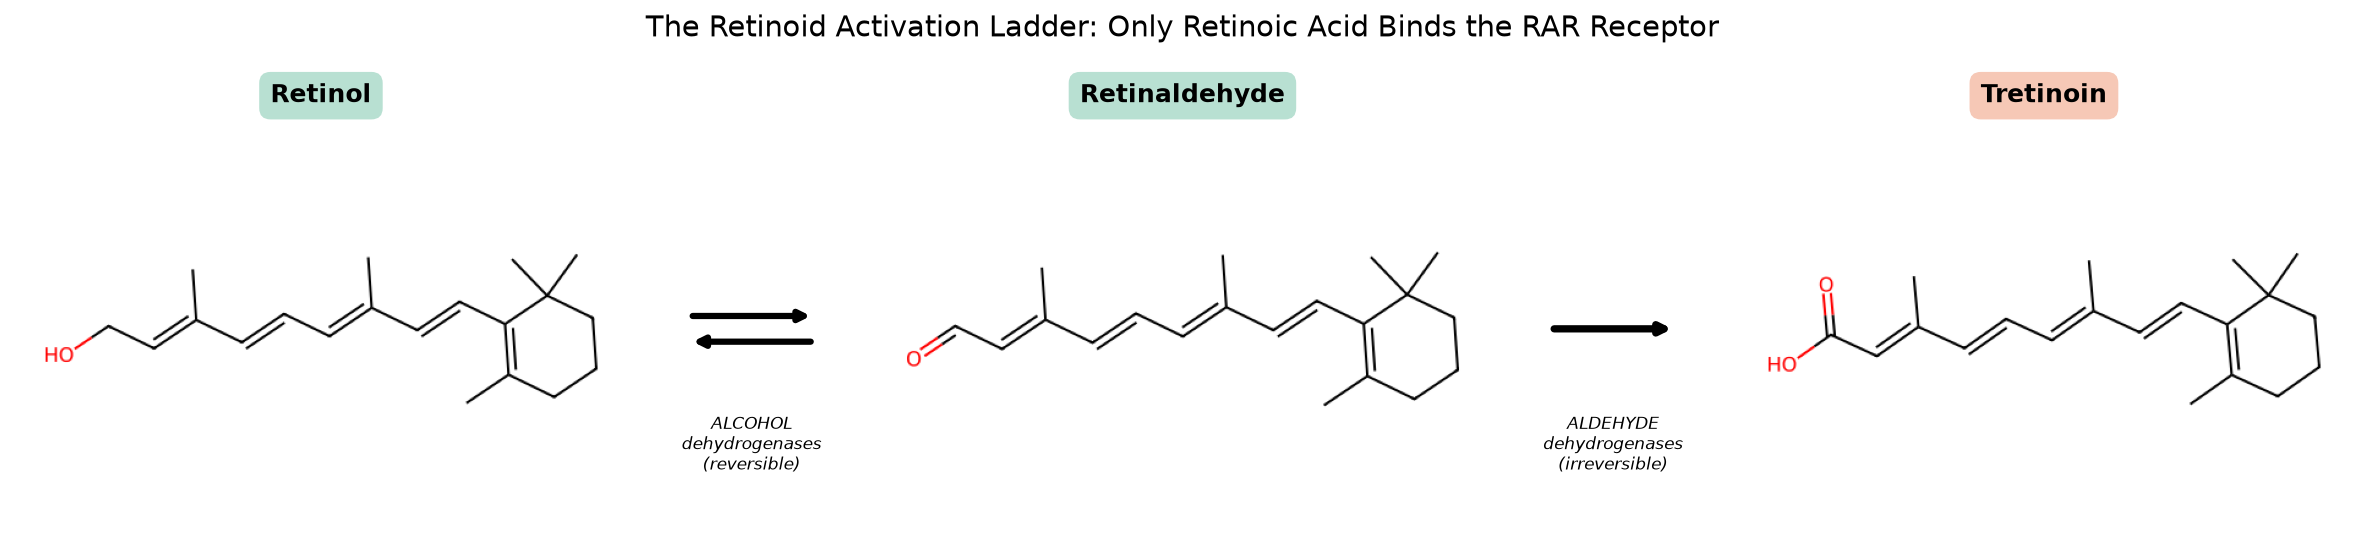
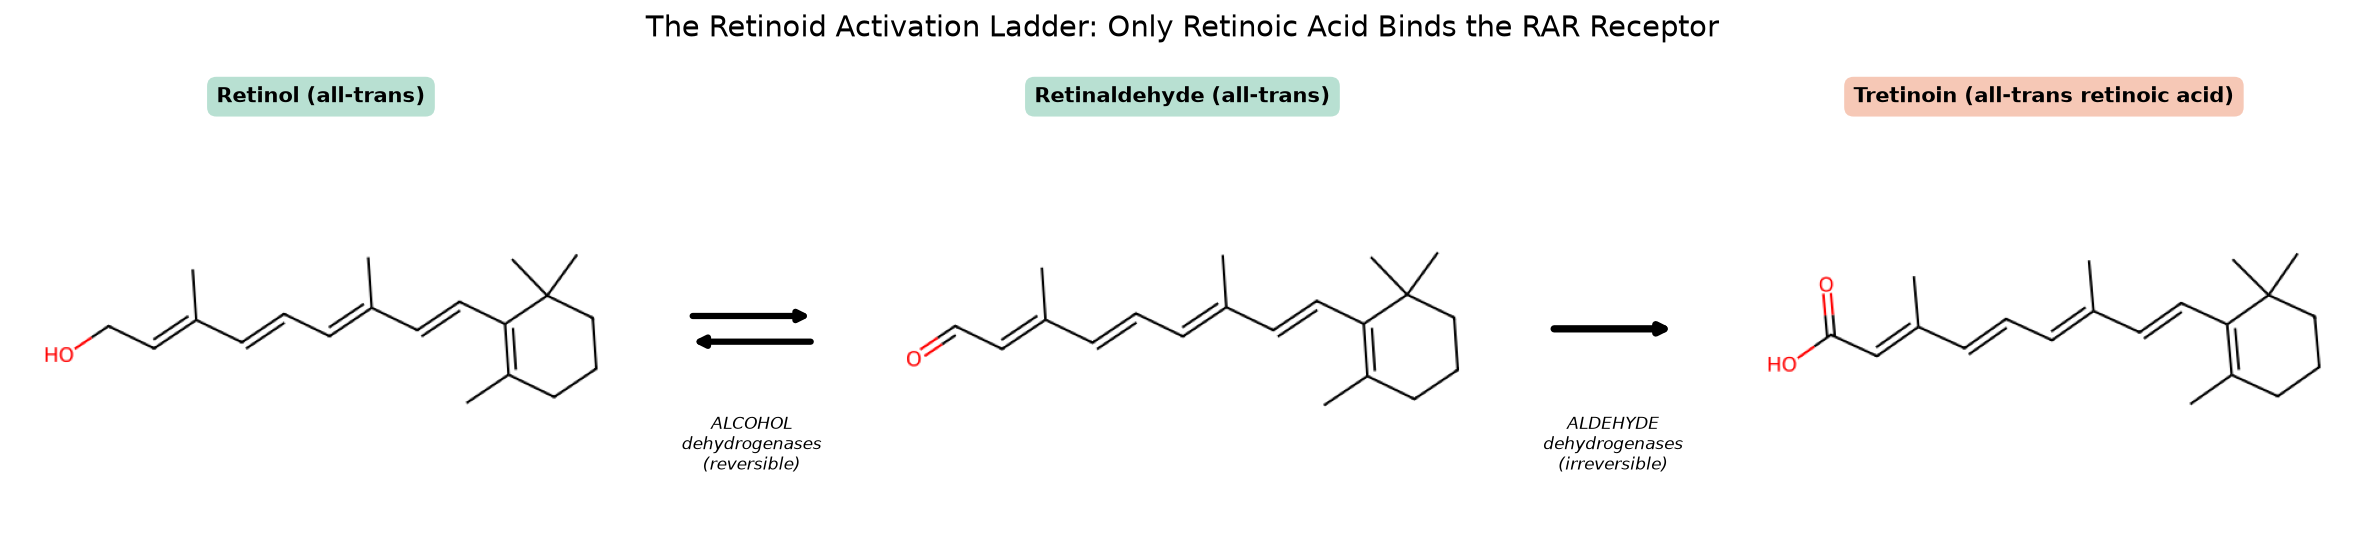
README draft and figure label fixes

Changed region(s): [[0.772, 0.1219, 0.9573, 0.2133], [0.4323, 0.1219, 0.5867, 0.2133], [0.0618, 0.1219, 0.1853, 0.2133]]

diff --git a/README.md b/README.md
@@ -1,1 +1,25 @@
-# Retinoid-analysis
+# Retinoid Chemistry: Marketing Claims vs Molecular Reality
+
+This project investigates....
+
+The visual elements of the notebook such as the molecular structures were generated  with RDKit
+
+Review and introduction of two randomised clinical trials
+
+Survey of five retinoid products sold by a UK retailer (Boots)
+
+Key Findings...
+
+Conversion ladder costs potency ---> Backed by Kafi et al.
+Concentration of RA precursor formulation can compensate for the losses ---> Backed by Chien et al.
+Disclosure ambiguity is the practical problem ---> Product survey 
+
+
+Contents:
+
+- 'retinoid_analysis.ipynb'
+- 'conversion_ladder.png'
+- 'ester_prodrug.png'
+- 'four_molecules.png'
+- 'isomer_pair.png'
+- 'receptor_activation.png'
